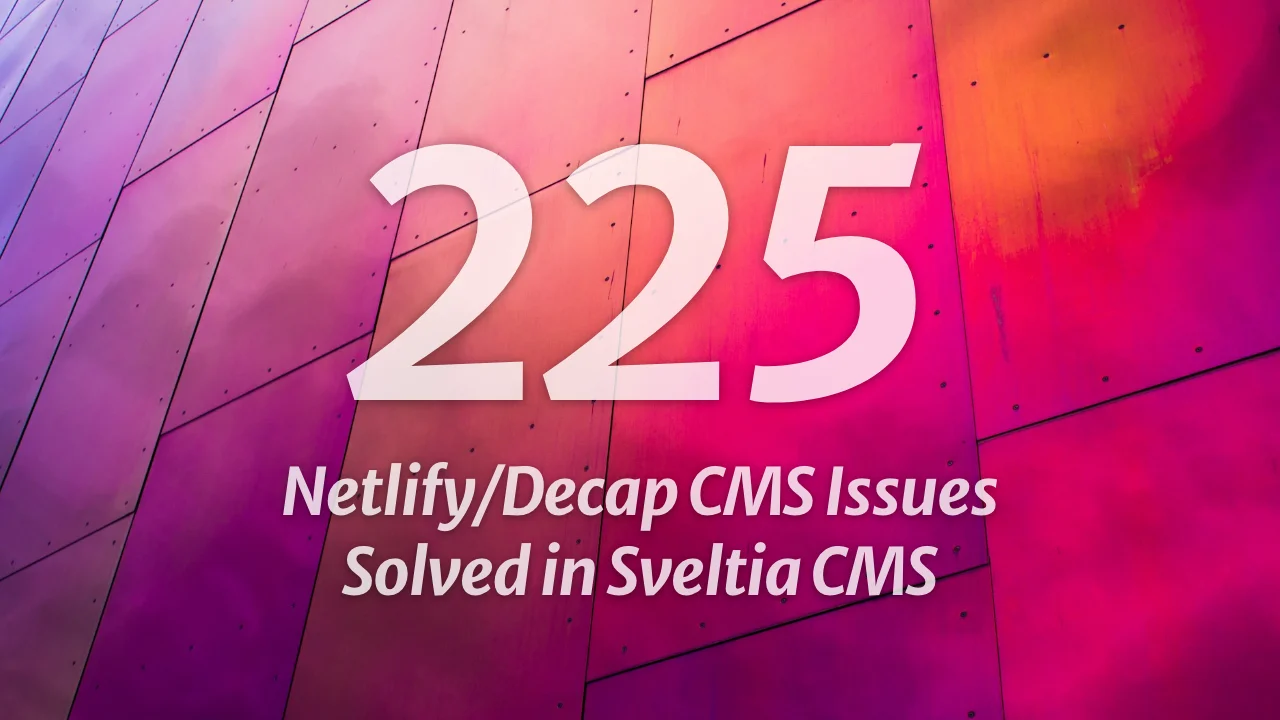
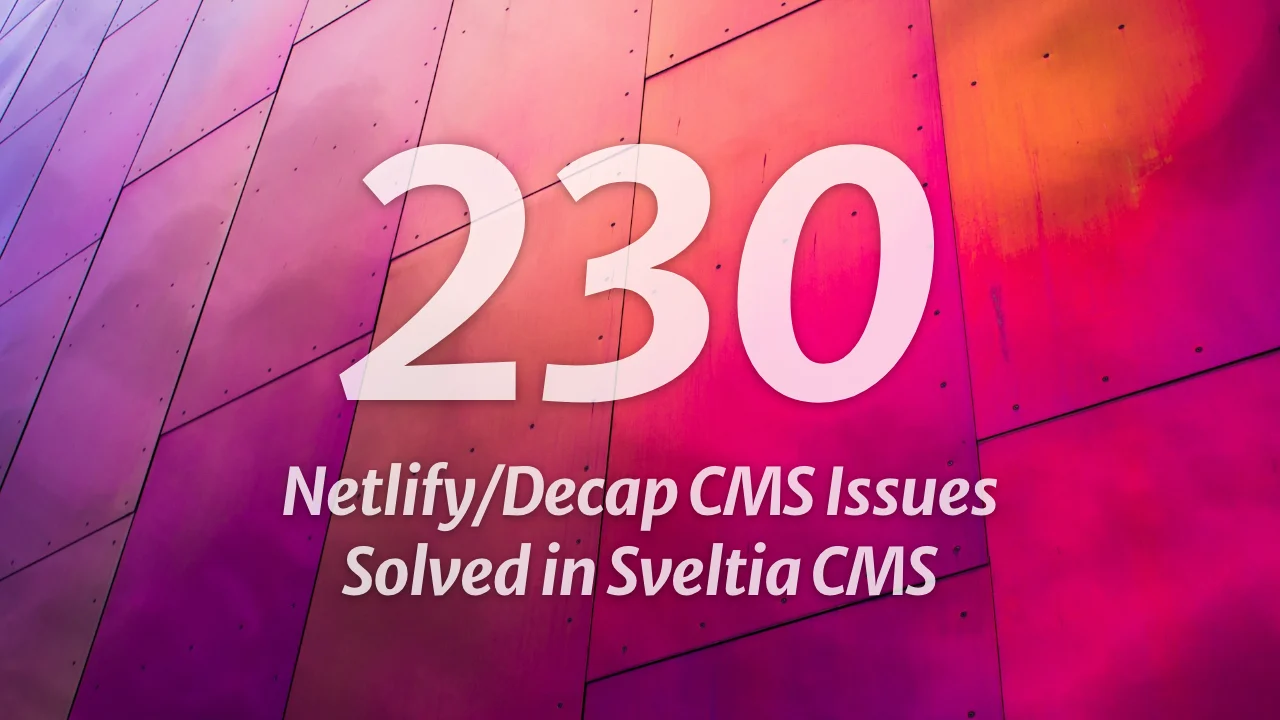
[skip ci] Update README.md

diff --git a/README.md b/README.md
@@ -130,7 +130,7 @@ While we fix reported bugs as quickly as possible, usually within 24 hours, our 
 
 - Ensuring substantial [compatibility with Netlify/Decap CMS](#compatibility)
 - Tackling as many [Netlify/Decap CMS issues](https://github.com/decaporg/decap-cms/issues) as possible
-  - So far, 225+ issues, or 465+ if including duplicates, have been effectively solved in Sveltia CMS (Yes, you read it right)
+  - So far, 230+ issues, or 465+ if including duplicates, have been effectively solved in Sveltia CMS (Yes, you read it right)
   - Target:
     - 200 issues, or 400 if including duplicates, by GA — We did it! 🎉
     - 400 issues, or 800 if including duplicates, in the future 💪
@@ -144,7 +144,7 @@ While we fix reported bugs as quickly as possible, usually within 24 hours, our 
 - Responding to requests from the maintainer’s clients
 - Making the code clean and maintainable
 
-![225 Netlify/Decap CMS issues solved in Sveltia CMS](https://raw.githubusercontent.com/sveltia/sveltia-cms/main/docs/headline-1.webp?20250612)<br>
+![230 Netlify/Decap CMS issues solved in Sveltia CMS](https://raw.githubusercontent.com/sveltia/sveltia-cms/main/docs/headline-1.webp?20250629)<br>
 
 ## Differentiators
 
@@ -224,9 +224,10 @@ Note: This lengthy section compares Sveltia CMS with both Netlify CMS and Decap 
 ### Better installation
 
 - Sveltia CMS is built with [Svelte](https://svelte.dev/), and we only publish compiled vanilla JavaScript bundles, so there are no React compatibility issues that might prevent developers from upgrading a project for many months.[^177] We haven’t actually integrated React for custom widgets and other features yet, but anyway, no dependencies will be installed when you [install the app with npm](#installing-with-npm).
-- Sveltia CMS also won’t cause peer dependency conflicts due to legacy third-party React UI libraries or any other reason.[^175][^237] We build the app using [our own Svelte UI component library](https://github.com/sveltia/sveltia-ui) to reduce reliance on third parties.
+- Sveltia CMS also won’t cause peer dependency conflicts mainly due to legacy third-party React UI libraries.[^175][^237] We build the app using [our own Svelte UI component library](https://github.com/sveltia/sveltia-ui) to reduce reliance on third parties.
 - Some servers and frameworks are known to remove the trailing slash from the CMS URL (`/admin`) depending on the configuration. In such cases, the config file is loaded from a root-relative URL (`/admin/config.yml`) instead of a regular relative URL (`./config.yml` = `/config.yml`) that results in a 404 Not Found error.[^107]
 - The [robots `meta` tag](https://developers.google.com/search/docs/crawling-indexing/robots-meta-tag) is automatically added to HTML to prevent the admin page from being indexed by search engines.[^174] Developers are still encouraged to manually add `<meta name="robots" content="noindex">` to `index.html`, as not all crawlers support dynamically added tags. However, our solution should at least work with Google in case you forget to do so.
+- Initializing the CMS twice (due to the incorrect placement of `CMS_MANUAL_INIT`) will not result in a `NotFoundError`.[^251]
 
 ### Better configuration
 
@@ -602,9 +603,9 @@ These Netlify/Decap CMS features are not yet implemented in Sveltia CMS. We are 
 - [Custom previews](https://decapcms.org/docs/customization/) ([#51](https://github.com/sveltia/sveltia-cms/issues/51))
 - [Event hooks](https://decapcms.org/docs/registering-events/) ([#167](https://github.com/sveltia/sveltia-cms/issues/167))
 
-Due to the complexity, we have decided to defer the following features to the 2.0 release. Netlify/Decap CMS has a number of open issues with the collaboration and beta features — we want to implement them the right way.
+Due to the complexity, we have decided to defer the following features to the 2.0 release. Netlify/Decap CMS has a number of open issues with these collaboration and beta features — we want to implement them the right way.
 
-- [Editorial Workflow](https://decapcms.org/docs/editorial-workflows/)
+- [Editorial Workflow](https://decapcms.org/docs/editorial-workflows/) & [Deploy Preview Links](https://decapcms.org/docs/deploy-preview-links/)
 - [Open Authoring](https://decapcms.org/docs/open-authoring/)
 - [Nested Collections](https://decapcms.org/docs/collection-nested/) (beta)
 
@@ -1389,12 +1390,12 @@ Due Q4 2025
 
 - Enhanced [compatibility with Netlify/Decap CMS](#current-limitations)
 - Tackling some more Netlify/Decap CMS issues:
-  - [Directory navigation in the asset library](https://github.com/sveltia/sveltia-cms/issues/420)[^240] (#5 top-voted feature of Netlify/Decap CMS)
+  - [Directory navigation in the Asset Library](https://github.com/sveltia/sveltia-cms/issues/420)[^240] (#5 top-voted feature of Netlify/Decap CMS)
   - [Multiple file selection with the File and Image widgets](https://github.com/sveltia/sveltia-cms/issues/10)[^239] (#14)
-  - [Git LFS support for GitHub backend](https://github.com/sveltia/sveltia-cms/discussions/353)[^244] (#26)
+  - [Git LFS support for the GitHub backend](https://github.com/sveltia/sveltia-cms/discussions/353)[^244] (#26)
   - Advanced Relation fields[^242], including cascade updates/deletes[^243] and [reverse reference lists](https://github.com/sveltia/sveltia-cms/discussions/416)
-  - Cloudinary and Uploadcare issues, including existing file selection[^247]
-  - [Automatic file renaming with templates](https://github.com/sveltia/sveltia-cms/issues/422)[^241]
+  - Several Cloudinary and Uploadcare media library issues, including selection of existing files[^247]
+  - [Automatic asset file renaming with templates](https://github.com/sveltia/sveltia-cms/issues/422)[^241]
   - [RTL localization support](https://github.com/sveltia/sveltia-cms/issues/385)[^245]
   - Thorough site config validation[^246]
   - [Entry pre-validation/normalization](https://github.com/sveltia/sveltia-cms/issues/395)[^248]
@@ -1408,7 +1409,7 @@ Due Q4 2025
 ### v2.0
 
 - Implementing [a few deferred Netlify/Decap CMS features](#current-limitations):
-  - [Editorial Workflow](https://decapcms.org/docs/editorial-workflows/)
+  - [Editorial Workflow](https://decapcms.org/docs/editorial-workflows/) & [Deploy Preview Links](https://decapcms.org/docs/deploy-preview-links/)
   - [Open Authoring](https://decapcms.org/docs/open-authoring/)
   - [Nested Collections](https://decapcms.org/docs/collection-nested/) (beta)
 - End-user documentation
@@ -1670,7 +1671,7 @@ This software is provided “as is” without any express or implied warranty. W
 
 [^112]: Netlify/Decap CMS [#5815](https://github.com/decaporg/decap-cms/issues/5815), [#6522](https://github.com/decaporg/decap-cms/issues/6522), [#6532](https://github.com/decaporg/decap-cms/issues/6532), [#6588](https://github.com/decaporg/decap-cms/issues/6588), [#6617](https://github.com/decaporg/decap-cms/issues/6617), [#6640](https://github.com/decaporg/decap-cms/issues/6640), [#6663](https://github.com/decaporg/decap-cms/issues/6663), [#6695](https://github.com/decaporg/decap-cms/issues/6695), [#6697](https://github.com/decaporg/decap-cms/issues/6697), [#6764](https://github.com/decaporg/decap-cms/issues/6764), [#6765](https://github.com/decaporg/decap-cms/issues/6765), [#6835](https://github.com/decaporg/decap-cms/issues/6835), [#6983](https://github.com/decaporg/decap-cms/issues/6983), [#7205](https://github.com/decaporg/decap-cms/issues/7205), [#7450](https://github.com/decaporg/decap-cms/issues/7450), [#7453](https://github.com/decaporg/decap-cms/issues/7453)
 
-[^113]: Netlify/Decap CMS [#5656](https://github.com/decaporg/decap-cms/issues/5656), [#5837](https://github.com/decaporg/decap-cms/issues/5837), [#5972](https://github.com/decaporg/decap-cms/issues/5972), [#6476](https://github.com/decaporg/decap-cms/issues/6476), [#6516](https://github.com/decaporg/decap-cms/issues/6516), [#6930](https://github.com/decaporg/decap-cms/issues/6930), [#6965](https://github.com/decaporg/decap-cms/issues/6965), [#7080](https://github.com/decaporg/decap-cms/issues/7080), [#7105](https://github.com/decaporg/decap-cms/issues/7105), [#7106](https://github.com/decaporg/decap-cms/issues/7106), [#7119](https://github.com/decaporg/decap-cms/issues/7119), [#7176](https://github.com/decaporg/decap-cms/issues/7176), [#7194](https://github.com/decaporg/decap-cms/issues/7194), [#7244](https://github.com/decaporg/decap-cms/issues/7244), [#7278](https://github.com/decaporg/decap-cms/issues/7278), [#7301](https://github.com/decaporg/decap-cms/issues/7301), [#7342](https://github.com/decaporg/decap-cms/issues/7342), [#7348](https://github.com/decaporg/decap-cms/issues/7348), [#7354](https://github.com/decaporg/decap-cms/issues/7354), [#7376](https://github.com/decaporg/decap-cms/issues/7376), [#7408](https://github.com/decaporg/decap-cms/issues/7408), [#7412](https://github.com/decaporg/decap-cms/issues/7412), [#7413](https://github.com/decaporg/decap-cms/issues/7413), [#7422](https://github.com/decaporg/decap-cms/issues/7422), [#7427](https://github.com/decaporg/decap-cms/issues/7427), [#7434](https://github.com/decaporg/decap-cms/issues/7434), [#7438](https://github.com/decaporg/decap-cms/issues/7438), [#7454](https://github.com/decaporg/decap-cms/issues/7454), [#7464](https://github.com/decaporg/decap-cms/issues/7464), [#7471](https://github.com/decaporg/decap-cms/issues/7471), [#7485](https://github.com/decaporg/decap-cms/issues/7485), [#7499](https://github.com/decaporg/decap-cms/issues/7499), [#7515](https://github.com/decaporg/decap-cms/issues/7515) — These `removeChild` crashes are common in React apps, likely caused by a [browser extension](https://github.com/facebook/react/issues/17256) or [Google Translate](https://github.com/facebook/react/issues/11538).
+[^113]: Netlify/Decap CMS [#5656](https://github.com/decaporg/decap-cms/issues/5656), [#5837](https://github.com/decaporg/decap-cms/issues/5837), [#5972](https://github.com/decaporg/decap-cms/issues/5972), [#6476](https://github.com/decaporg/decap-cms/issues/6476), [#6516](https://github.com/decaporg/decap-cms/issues/6516), [#6930](https://github.com/decaporg/decap-cms/issues/6930), [#7080](https://github.com/decaporg/decap-cms/issues/7080), [#7105](https://github.com/decaporg/decap-cms/issues/7105), [#7106](https://github.com/decaporg/decap-cms/issues/7106), [#7119](https://github.com/decaporg/decap-cms/issues/7119), [#7176](https://github.com/decaporg/decap-cms/issues/7176), [#7194](https://github.com/decaporg/decap-cms/issues/7194), [#7244](https://github.com/decaporg/decap-cms/issues/7244), [#7278](https://github.com/decaporg/decap-cms/issues/7278), [#7301](https://github.com/decaporg/decap-cms/issues/7301), [#7342](https://github.com/decaporg/decap-cms/issues/7342), [#7348](https://github.com/decaporg/decap-cms/issues/7348), [#7354](https://github.com/decaporg/decap-cms/issues/7354), [#7376](https://github.com/decaporg/decap-cms/issues/7376), [#7408](https://github.com/decaporg/decap-cms/issues/7408), [#7412](https://github.com/decaporg/decap-cms/issues/7412), [#7413](https://github.com/decaporg/decap-cms/issues/7413), [#7422](https://github.com/decaporg/decap-cms/issues/7422), [#7427](https://github.com/decaporg/decap-cms/issues/7427), [#7434](https://github.com/decaporg/decap-cms/issues/7434), [#7438](https://github.com/decaporg/decap-cms/issues/7438), [#7454](https://github.com/decaporg/decap-cms/issues/7454), [#7464](https://github.com/decaporg/decap-cms/issues/7464), [#7471](https://github.com/decaporg/decap-cms/issues/7471), [#7485](https://github.com/decaporg/decap-cms/issues/7485), [#7499](https://github.com/decaporg/decap-cms/issues/7499), [#7515](https://github.com/decaporg/decap-cms/issues/7515) — These `removeChild` crashes are common in React apps, likely caused by a [browser extension](https://github.com/facebook/react/issues/17256) or [Google Translate](https://github.com/facebook/react/issues/11538).
 
 [^114]: Netlify/Decap CMS [#5029](https://github.com/decaporg/decap-cms/issues/5029), [#5048](https://github.com/decaporg/decap-cms/issues/5048)
 
@@ -1945,3 +1946,5 @@ This software is provided “as is” without any express or implied warranty. W
 [^249]: Netlify/Decap CMS [#4208](https://github.com/decaporg/decap-cms/issues/4208)
 
 [^250]: Netlify/Decap CMS [#6609](https://github.com/decaporg/decap-cms/issues/6609), [#6802](https://github.com/decaporg/decap-cms/issues/6802), [#6824](https://github.com/decaporg/decap-cms/issues/6824), [#6832](https://github.com/decaporg/decap-cms/issues/6832), [#6848](https://github.com/decaporg/decap-cms/issues/6848), [#6851](https://github.com/decaporg/decap-cms/issues/6851), [#7287](https://github.com/decaporg/decap-cms/issues/7287), [#7522](https://github.com/decaporg/decap-cms/issues/7522)
+
+[^251]: Netlify/Decap CMS [#6965](https://github.com/decaporg/decap-cms/issues/6965), [#7445](https://github.com/decaporg/decap-cms/issues/7445)
